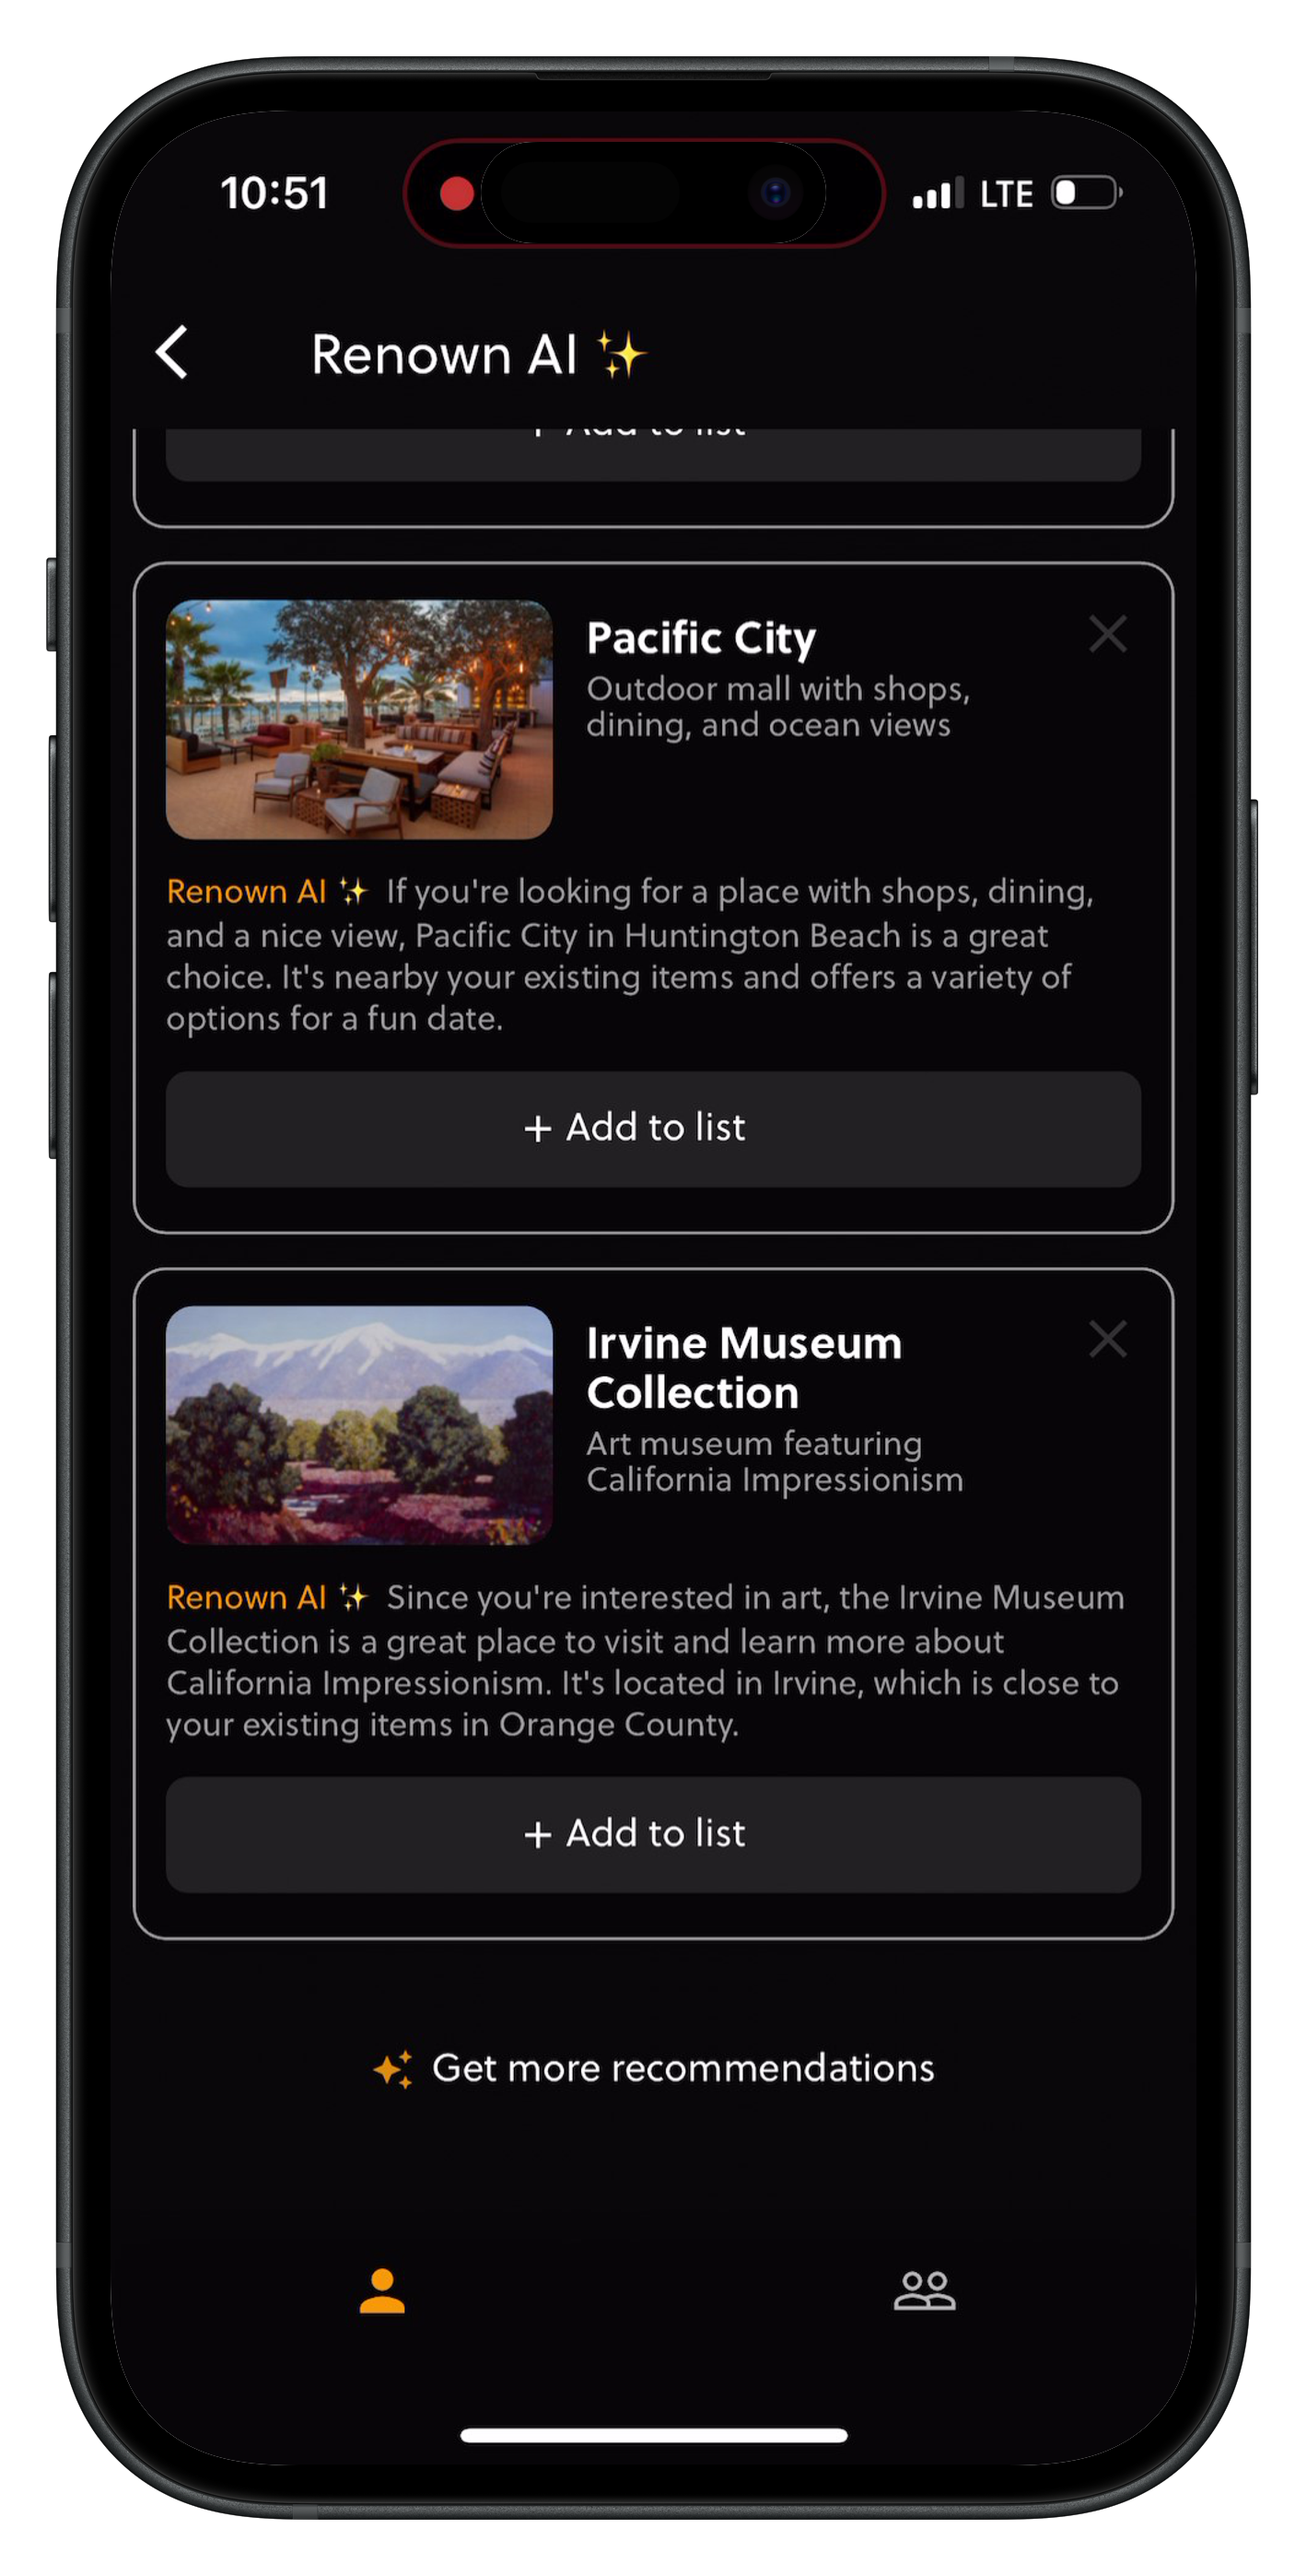
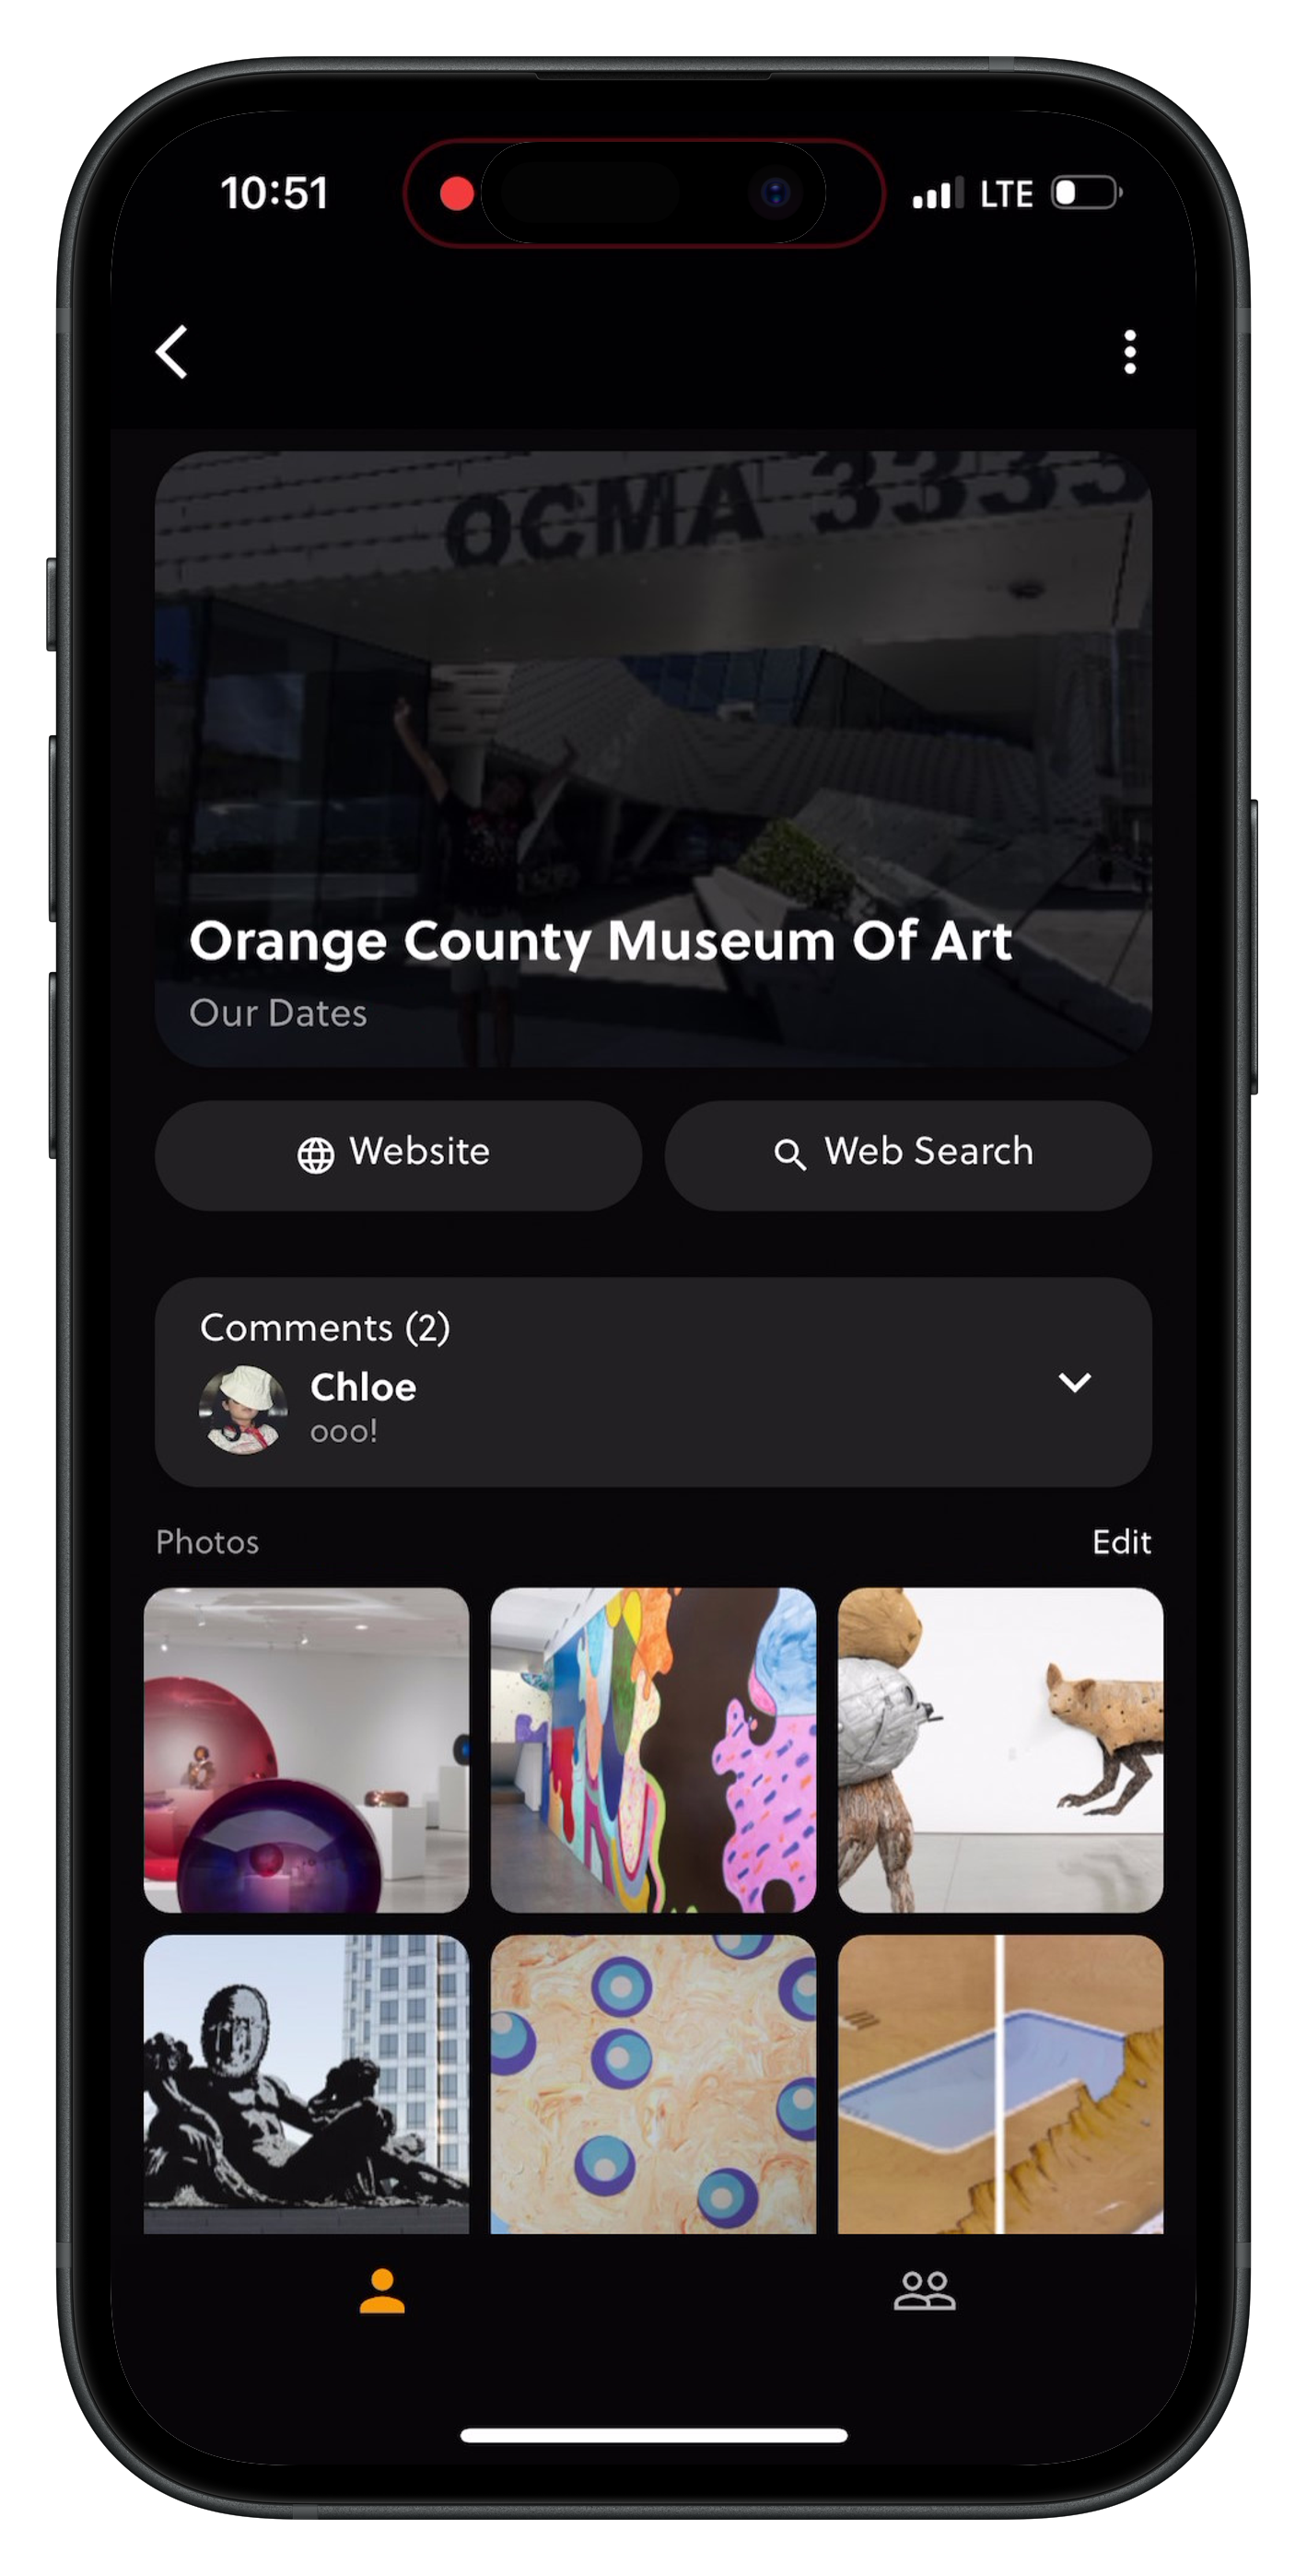
Quartz sync: Jan 23, 2025, 11:57 AM

diff --git a/content/Notes/LSD-SLAM.md b/content/Notes/LSD-SLAM.md
@@ -1,0 +1,8 @@
+---
+draft: true
+---
+
+Paper: [LSD-SLAM: Large-Scale Direct Monocular SLAM ](https://jakobengel.github.io/pdf/engel14eccv.pdf)
+## Motivation
+Feature-based visual SLAM extracts key points from the image and tracks these key points across multiple frames. These points are projected into 3D and the SLAM problem is reduced to a graph optimization problem involving poses and feature observations. In some cases, it is hard to find good features in an image due to texture-less surfaces, no corners, etc.
+## Direct Approach

diff --git a/content/Logs/Next steps for Racing-SLAM V1.md b/content/Logs/Next steps for Racing-SLAM V1.md
@@ -2,12 +2,15 @@ After some improvements, I've gotten my SLAM algorithm to work decently on racin
 
 ![[okayama-lap.mp4]]
 # Visual SLAM Challenges
-It contains a number of complexities that make visual SLAM hard. 
+There are number of complexities that make visual SLAM hard. 
 1. **Lack of texture.** There are very few easily identifiable patches on the road surface for feature tracking -- it's mostly gray.
 2. **Repeating patterns**. The areas that are identifiable, such as the red and white curbing or the white and blue barriers, have repeating patterns that can confuse the feature matching algorithm. This is largely because feature matching operates on small pixel patches, without considering context. When it sees a red rectangle, it's not sure if it's the same one that it passed earlier, or a different one.
 3. **Few nearby objects.** This video was intentionally recorded at a very high FOV (120 degrees), since it didn't work at 70 degrees FOV. At lower FOVs, the left and right sides of the footage is not visible and the only visible points are the road and the objects in the distance. The lack of nearby objects means many features will have very low parallax (movement between frames) and it is hard to estimate their 3D position.
 
 These 3 challenges make estimating relative motion difficult and cause the SLAM to fail in many cases. I will note that these challenges are relatively specific to the footage I'm working with. I could pick another video, but that defeats the purpose of the project.
+### Example
+![[slam-correspondences.png]]
+ Two consecutive frames are shown with color-coded correspondences. The correspondences were computed by matching ORB descriptors. Clearly, there are many correspondences that do not actually correspond to the same point in the image. This is evident when you look at the gray barrier on the left. Poor feature matching across images means that it is very hard to get a reliable SLAM.
 # Implementation Challenges
 One of the core challenges is performance. I want to be able to process real-time or near real-time input, but the current implementation is very slow. There are a couple key areas of the implementation that I want to improve.
 1. **Bundle adjustment performance**. Currently, local bundle adjustment is performed after every frame. This should probably be changed so that it's only performed when needed. I'll have to figure out some way to decide when that is.